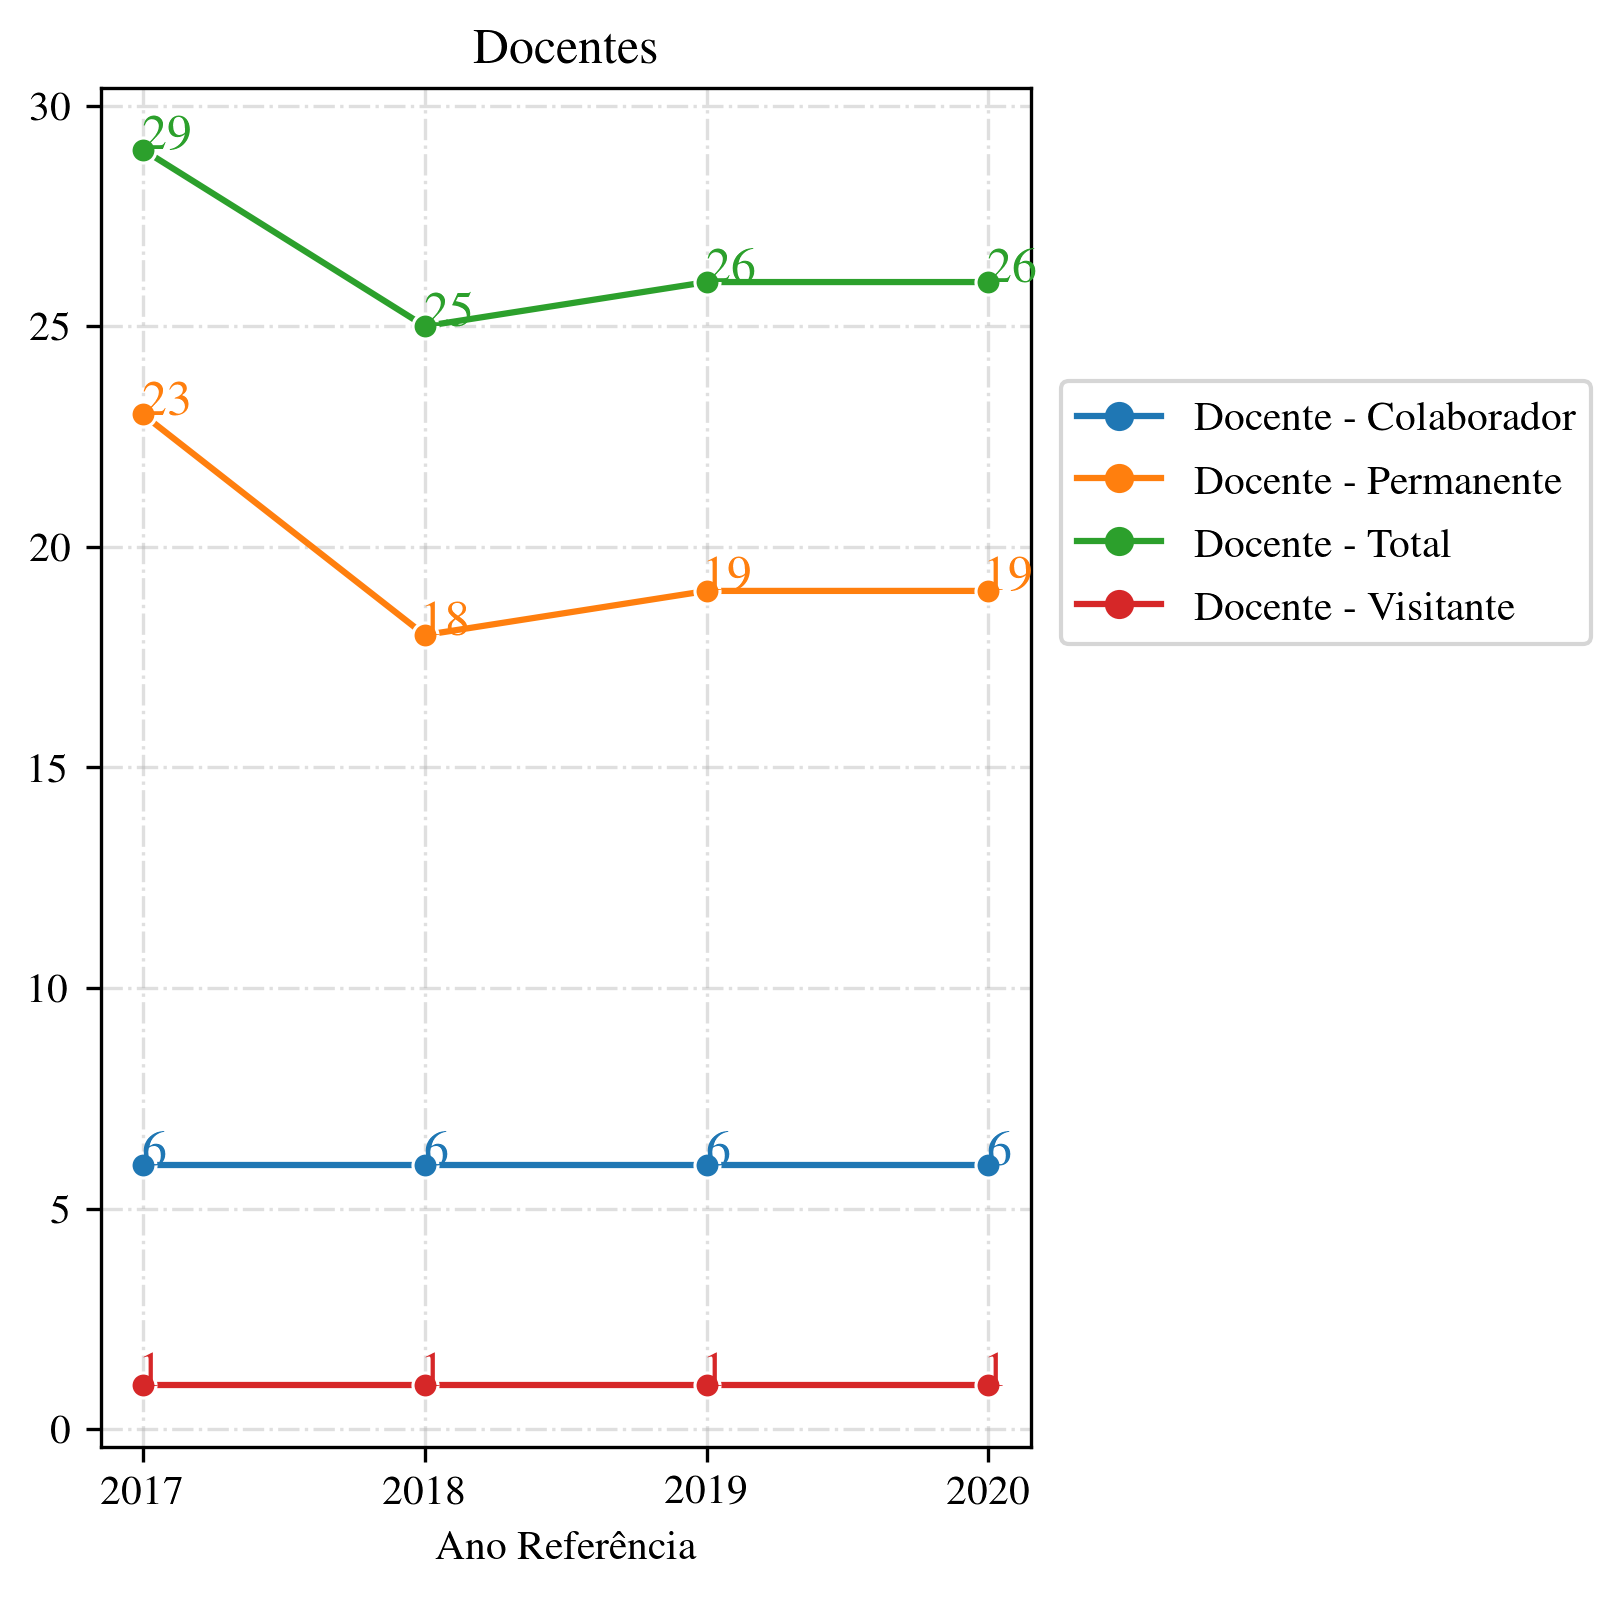
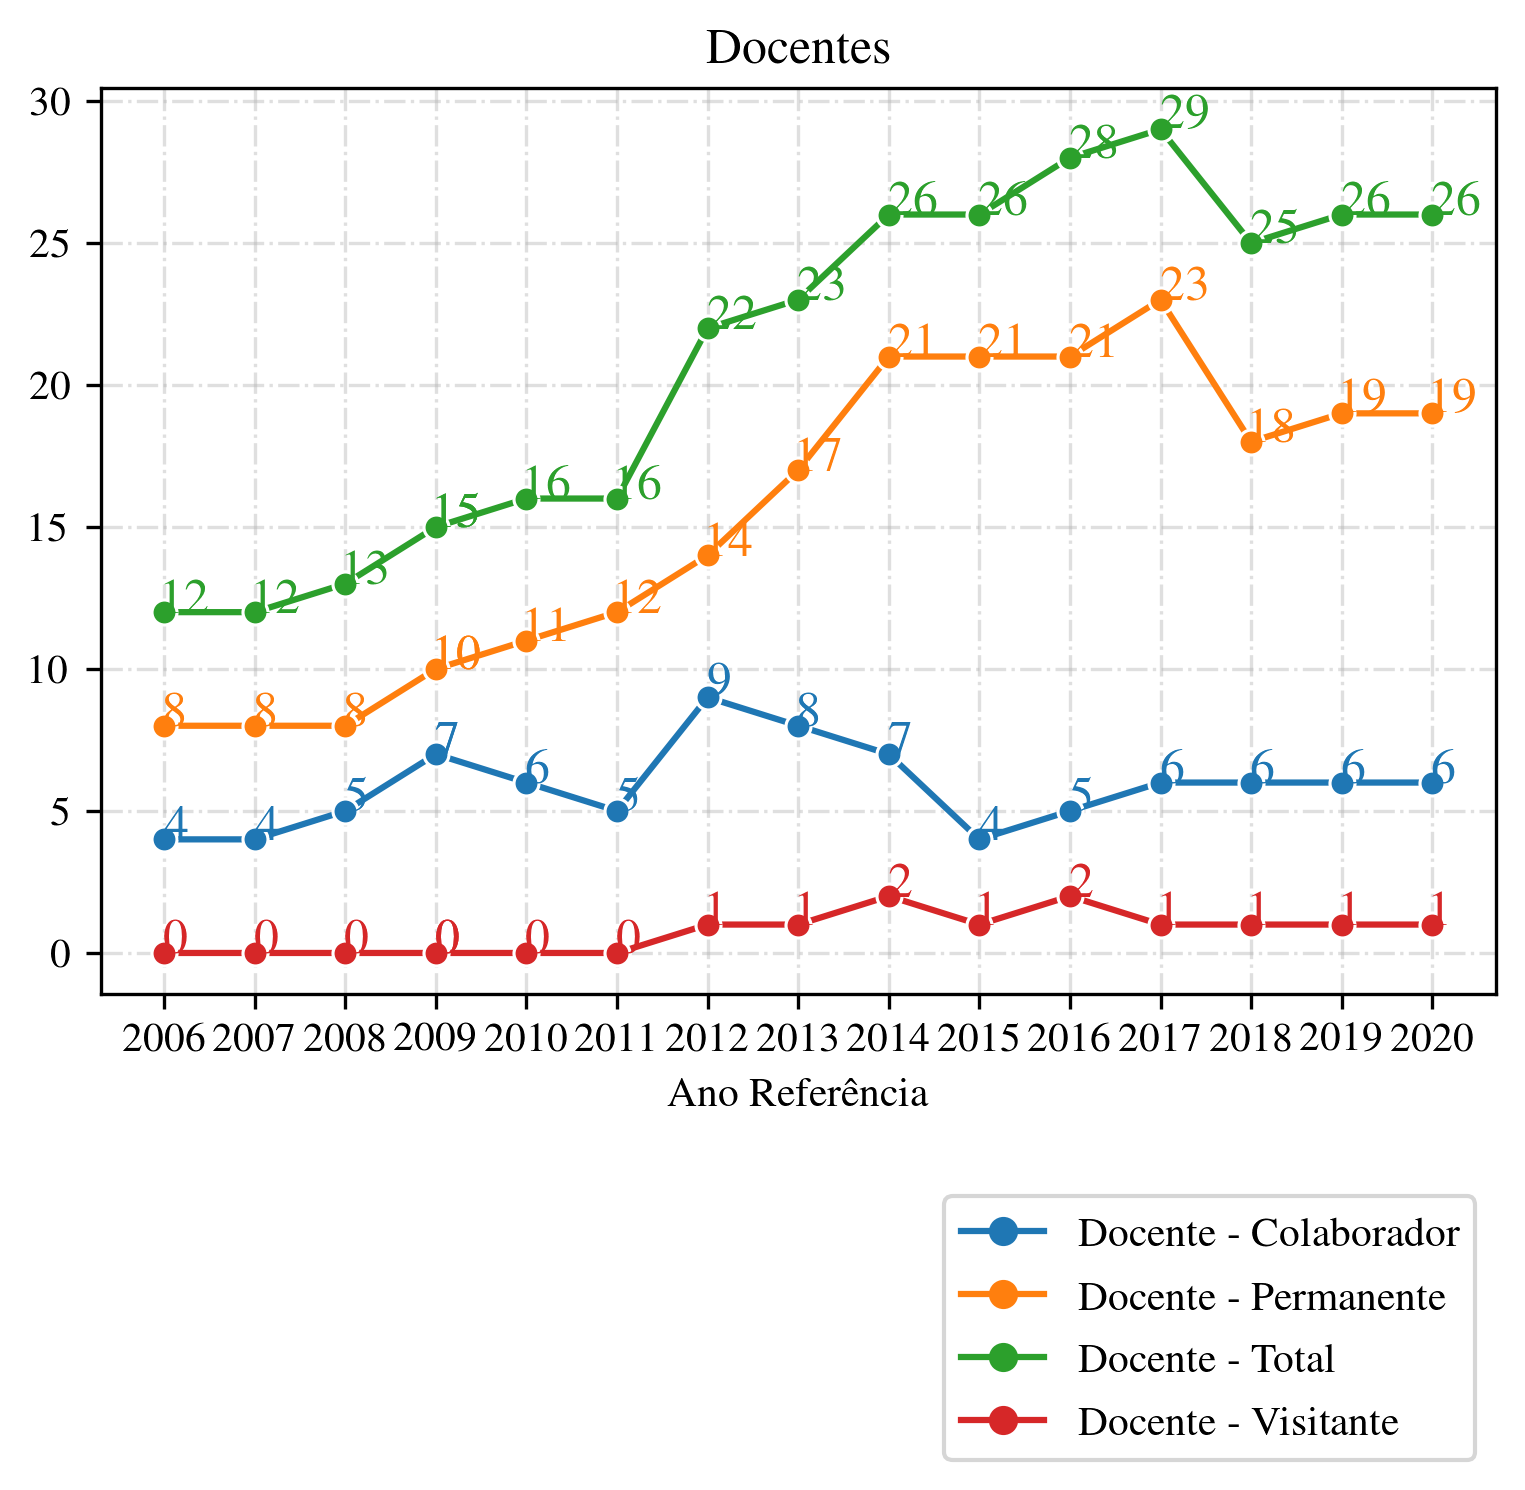
goliatt sex abr 16 18:23:43 -03 2021

diff --git a/analise_sucupira.py b/analise_sucupira.py
@@ -71,7 +71,9 @@ for (a,b), df in A.groupby([c[0],c[1]]):
         ('Docentes'                             , c[2:3]+c[21:25] ),        
         ('Participantes Externos'               , c[2:3]+c[25:26] ),        
         ('Egressos'                             , c[2:3]+c[27:29]+c[49:50]),        
-        ('Disciplinas e Turmas'                 , c[2:3]+c[30:31]+c[32:33] ),
+        ('Egressos Doutorado'                   , c[2:3]+c[27:28] ),        
+        ('Egressos Mestado  '                   , c[2:3]+c[28:29] ),        
+        ('Disciplinas e Turmas'                 , c[2:3]+c[30:31] ),
         ('Produção Artística-Cultural'          , c[2:3]+c[38:41] ),
         ('Produção Bibliográfica'               , c[2:3]+c[41:44] ),
         ('Produção Técnica'                     , c[2:3]+c[44:47] ),
@@ -86,10 +88,10 @@ for (a,b), df in A.groupby([c[0],c[1]]):
         n_colors = aux.shape[1]-1
         palette=sns.color_palette("tab10")[:n_colors]
         aux=aux.melt(id_vars=c[2])
-        
+        #%%
         pl.figure()
         a4_dims = (4, 6)
-        fig, ax = pl.subplots(figsize=a4_dims)
+        fig, ax = pl.subplots()#figsize=a4_dims)
         for (label, item), color in zip(aux.groupby('variable'),palette):
             g = sns.lineplot(x=c[2], y='value', hue='variable', style='variable', 
                           markers=True, dashes=False, 
@@ -102,7 +104,8 @@ for (a,b), df in A.groupby([c[0],c[1]]):
            
         g.set_ylabel(''); g.grid(alpha=0.4, ls='-.')
         g.set_title(key)
-        g.legend(bbox_to_anchor=(1.01,0.8))
+        #g.legend(bbox_to_anchor=(1.01,0.8))
+        g.legend(bbox_to_anchor=(1.,-0.2))
         pl.savefig(dir_name+'/'+key.replace(' ','_')+'.png', dpi=300, bbox_inches='tight')
         pl.show()
      
